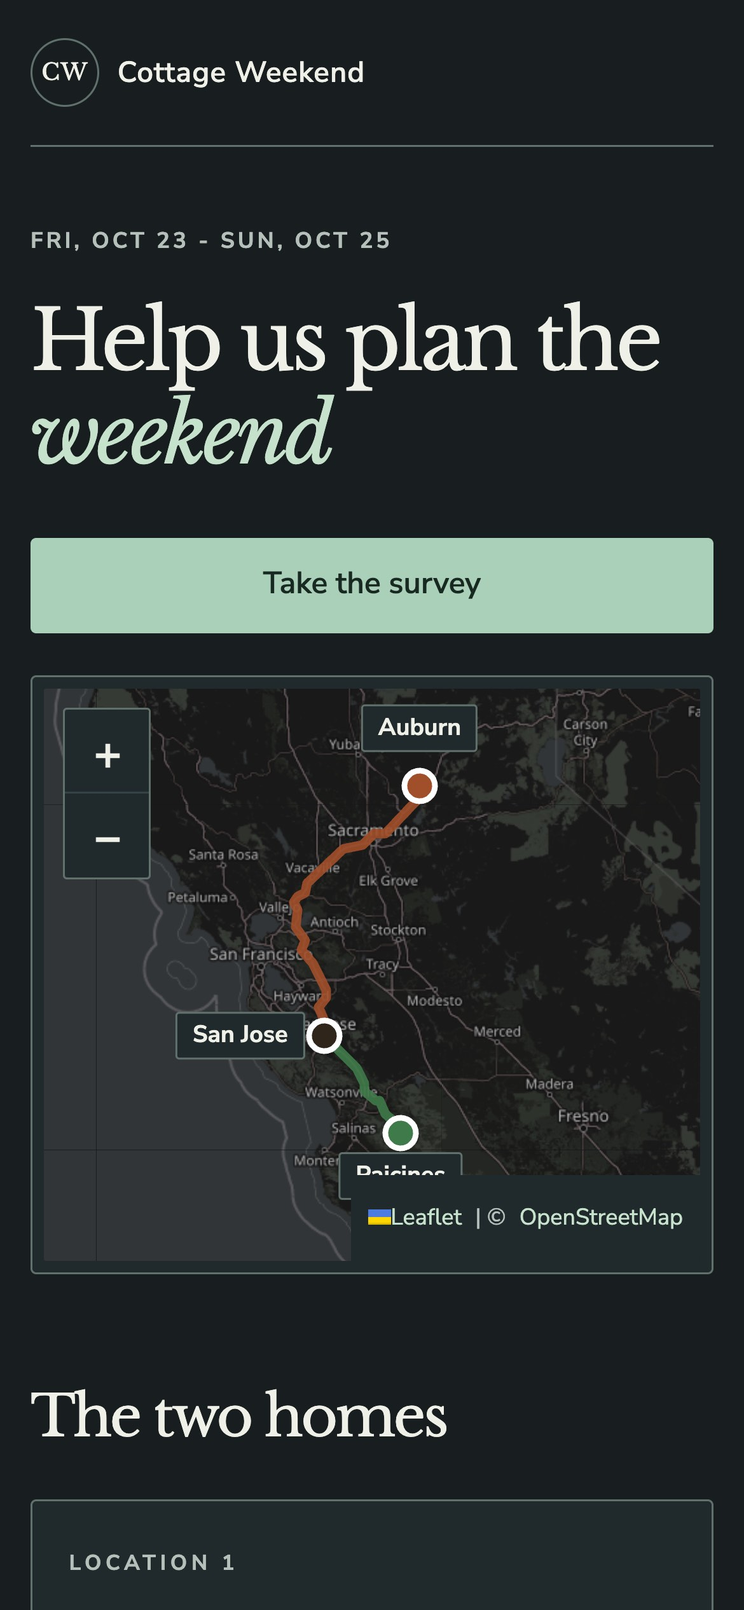
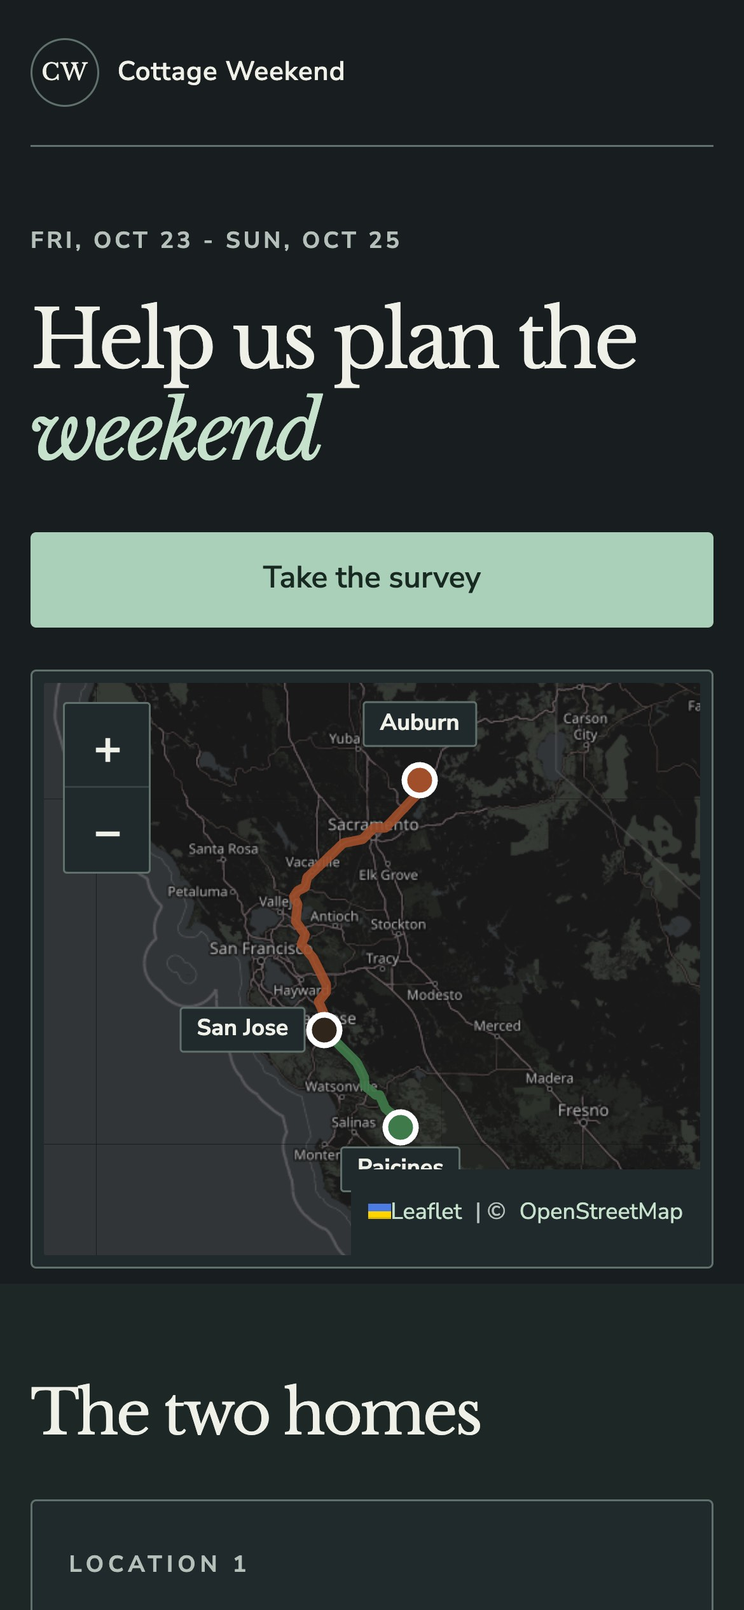
Apply final survey feedback

diff --git a/styles.css b/styles.css
@@ -20,8 +20,19 @@
   --green: #35675b;
   --gold: #637d55;
   --danger: #a13431;
+  --band-hero: #f5f5ef;
+  --band-homes: #edf1e9;
+  --band-survey: #f6efe5;
+  --band-footer: #eceee7;
   --serif: 'Libre Baskerville', Georgia, serif;
   --sans: 'Nunito Sans', system-ui, sans-serif;
+  --fs-xs: 0.75rem;
+  --fs-sm: 0.875rem;
+  --fs-base: 1rem;
+  --fs-md: 1.125rem;
+  --fs-lg: clamp(1.35rem, 4.6vw, 1.65rem);
+  --fs-xl: clamp(2rem, 6vw, 3rem);
+  --fs-hero: clamp(2.6rem, 10vw, 4.5rem);
   --max: 1080px;
 }
 
@@ -43,6 +54,10 @@
     --green: #abd0b9;
     --gold: #ccdab3;
     --danger: #ffb2a6;
+    --band-hero: #181e20;
+    --band-homes: #1d2726;
+    --band-survey: #241f1d;
+    --band-footer: #202628;
   }
 }
 
@@ -80,13 +95,13 @@ h1, h2, h3, legend, .q > label:first-child {
   font-weight: 400;
   letter-spacing: -0.045em;
 }
-h1 { max-width: 14ch; margin: 0; font-size: clamp(2.7rem, 10.5vw, 4.6rem); line-height: 1.14; }
+h1 { max-width: 14ch; margin: 0; font-size: var(--fs-hero); line-height: 1.14; }
 h1 em { color: var(--accent-strong); font-style: italic; font-weight: 400; }
-h2 { margin: 0; font-size: clamp(1.85rem, 5vw, 2.65rem); line-height: 1.25; }
-h3 { margin: 0; font-size: 1.5rem; line-height: 1; }
+h2 { margin: 0; font-size: var(--fs-xl); line-height: 1.25; }
+h3 { margin: 0; font-size: var(--fs-lg); line-height: 1; }
 
 /* Header and route map */
-.hero { padding: 20px 0 8px; }
+.hero { padding: 20px 0 8px; background: var(--band-hero); }
 .nav {
   display: flex;
   align-items: center;
@@ -96,7 +111,7 @@ h3 { margin: 0; font-size: 1.5rem; line-height: 1; }
   border-bottom: 1px solid var(--line-strong);
   margin-bottom: 36px;
 }
-.brand { display: inline-flex; align-items: center; gap: 0.6rem; font-weight: 600; letter-spacing: 0.025em; font-size: 0.95rem; }
+.brand { display: inline-flex; align-items: center; gap: 0.6rem; font-weight: 600; letter-spacing: 0.025em; font-size: var(--fs-sm); }
 .brand-mark {
   display: grid;
   place-items: center;
@@ -106,17 +121,17 @@ h3 { margin: 0; font-size: 1.5rem; line-height: 1; }
   border: 1px solid var(--line-strong);
   color: var(--ink);
   font-family: var(--serif);
-  font-size: 0.75rem;
+  font-size: var(--fs-xs);
   font-weight: 400;
 }
-.nav-links { display: none; gap: 1rem; font-size: 0.85rem; color: var(--muted); }
+.nav-links { display: none; gap: 1rem; font-size: var(--fs-sm); color: var(--muted); }
 .nav-links a { display: inline-flex; align-items: center; min-height: 44px; padding: 0.55rem 0; text-decoration: none; font-weight: 600; }
 .nav-links a:hover, .nav-links a:focus-visible { color: var(--ink); text-decoration: underline; text-underline-offset: 6px; outline: none; }
 .kicker {
   display: inline-block;
   margin: 0 0 1.2rem;
   color: var(--muted);
-  font-size: 0.73rem;
+  font-size: var(--fs-xs);
   font-weight: 700;
   letter-spacing: 0.14em;
   text-transform: uppercase;
@@ -160,7 +175,7 @@ button:disabled { opacity: 0.62; cursor: not-allowed; transform: none; }
   color: var(--ink);
   border: 1px solid var(--line-strong);
   border-radius: 2px;
-  font: 700 0.78rem/1.6 var(--sans);
+  font: 700 var(--fs-xs)/1.6 var(--sans);
   white-space: nowrap;
 }
 .map .leaflet-bar { border: 1px solid var(--line-strong); border-radius: 2px; box-shadow: none; }
@@ -172,7 +187,10 @@ button:disabled { opacity: 0.62; cursor: not-allowed; transform: none; }
 }
 
 /* Both homes use the same visual treatment. */
-.section { padding: 48px 0 12px; }
+.section { position: relative; isolation: isolate; padding: 48px 0 12px; }
+.section::before { content: ''; position: absolute; inset: 0 calc(50% - 50vw); z-index: -1; background: var(--section-band, var(--bg)); }
+#homes { --section-band: var(--band-homes); }
+#survey { --section-band: var(--band-survey); }
 .section-title { margin-bottom: 1.6rem; }
 .location-grid { display: grid; gap: 40px; }
 .location-card { overflow: hidden; border: 1px solid var(--line-strong); border-radius: 3px; background: var(--card-strong); }
@@ -185,12 +203,12 @@ button:disabled { opacity: 0.62; cursor: not-allowed; transform: none; }
   padding: 1.5rem 1.2rem 1.4rem;
   border-bottom: 1px solid var(--line);
 }
-.card-head .eyebrow { flex: 0 0 100%; color: var(--muted); font-size: 0.7rem; font-weight: 700; letter-spacing: 0.2em; text-transform: uppercase; }
-.card-head h3 { font-size: clamp(2.2rem, 7vw, 3rem); line-height: 1.2; }
+.card-head .eyebrow { flex: 0 0 100%; color: var(--muted); font-size: var(--fs-xs); font-weight: 700; letter-spacing: 0.2em; text-transform: uppercase; }
+.card-head h3 { font-size: var(--fs-xl); line-height: 1.2; }
 .card-head .address { flex: 0 0 100%; margin: 0.2rem 0 0; }
 .location-meta { display: flex; flex-wrap: wrap; gap: 0.45rem; margin: 0; }
-.pill { display: inline-flex; align-items: center; gap: 0.35rem; padding: 0.35rem 0.75rem; border-radius: 2px; background: var(--tint); color: var(--ink); font-size: 0.85rem; font-weight: 600; }
-.address { display: flex; align-items: flex-start; gap: 0.4rem; color: var(--muted); font-size: 0.88rem; }
+.pill { display: inline-flex; align-items: center; gap: 0.35rem; padding: 0.35rem 0.75rem; border-radius: 2px; background: var(--tint); color: var(--ink); font-size: var(--fs-sm); font-weight: 600; }
+.address { display: flex; align-items: flex-start; gap: 0.4rem; color: var(--muted); font-size: var(--fs-sm); }
 .address .icon { margin-top: 0.15rem; }
 .photo-strip { position: relative; }
 .photo-grid {
@@ -227,11 +245,11 @@ button:disabled { opacity: 0.62; cursor: not-allowed; transform: none; }
 .strip-arrow:disabled { opacity: 0; pointer-events: none; }
 .strip-arrow.prev { left: 12px; }
 .strip-arrow.next { right: 12px; }
-.strip-count { position: absolute; right: 12px; bottom: 12px; padding: 0.2rem 0.65rem; border-radius: 2px; background: rgba(24, 30, 32, 0.82); color: #fff8ec; font-size: 0.82rem; font-weight: 500; letter-spacing: 0.06em; }
+.strip-count { position: absolute; right: 12px; bottom: 12px; padding: 0.2rem 0.65rem; border-radius: 2px; background: rgba(24, 30, 32, 0.82); color: #fff8ec; font-size: var(--fs-xs); font-weight: 500; letter-spacing: 0.06em; }
 .location-body { display: grid; gap: 1.2rem; padding: 1.5rem 1.2rem; }
-.location-body .feel { margin: 0; font-family: var(--serif); font-size: 1.2rem; font-weight: 400; line-height: 1.65; letter-spacing: -0.02em; }
+.location-body .feel { margin: 0; font-family: var(--serif); font-size: var(--fs-md); font-weight: 400; line-height: 1.65; letter-spacing: -0.02em; }
 .feel-chips { display: flex; flex-wrap: wrap; gap: 0.3rem 0.6rem; margin: 0.8rem 0 0; padding: 0; list-style: none; }
-.feel-chips li { padding: 0.3rem 0.7rem; border: 1px solid var(--line-strong); border-radius: 2px; font-size: 0.82rem; font-weight: 500; }
+.feel-chips li { padding: 0.3rem 0.7rem; border: 1px solid var(--line-strong); border-radius: 2px; font-size: var(--fs-xs); font-weight: 500; }
 .card-actions { display: flex; flex-wrap: wrap; gap: 0.6rem; margin-top: 1.5rem; }
 .card-actions .button { flex: 1 1 11rem; }
 .card-map { width: 100%; height: 260px; border: 1px solid var(--line); border-radius: 3px; background: var(--tint); }
@@ -240,38 +258,37 @@ button:disabled { opacity: 0.62; cursor: not-allowed; transform: none; }
 .form-card { max-width: 720px; }
 .progress { position: sticky; top: env(safe-area-inset-top); z-index: 5; display: grid; gap: 0.45rem; margin-bottom: 1rem; padding: 0.9rem 0; background: var(--bg); }
 .progress.done .progress-text { color: var(--green); }
-.progress-text { color: var(--muted); font-size: 0.7rem; font-weight: 700; letter-spacing: 0.15em; text-transform: uppercase; }
+.progress-text { color: var(--muted); font-size: var(--fs-xs); font-weight: 700; letter-spacing: 0.15em; text-transform: uppercase; }
 .progress-bar { height: 3px; overflow: hidden; background: var(--tint-strong); }
 .progress-bar span { display: block; width: 0; height: 100%; background: var(--accent); transition: width 0.3s ease; }
 form { display: grid; gap: 1rem; counter-reset: q; }
 .q { counter-increment: q; min-width: 0; margin: 0; padding: 1.3rem 1.2rem 1.4rem; border: 1px solid var(--line); border-radius: 3px; background: var(--card-strong); scroll-margin-top: calc(84px + env(safe-area-inset-top)); }
 .q.missing { border-color: var(--danger); box-shadow: 0 0 0 4px rgba(184, 61, 47, 0.18); }
 [hidden] { display: none !important; }
-legend, .q > label:first-child { display: block; margin: 0.4rem 0 1.1rem; padding: 0; font-size: clamp(1.35rem, 4.8vw, 1.7rem); line-height: 1.4; letter-spacing: -0.035em; }
-legend::before, .q > label:first-child::before { content: counter(q, decimal-leading-zero) '.'; display: inline-grid; place-items: center; margin-right: 0.65rem; color: var(--muted); font: 600 0.8rem/1 var(--sans); letter-spacing: 0; vertical-align: 0.2em; }
+legend, .q > label:first-child { display: block; margin: 0.4rem 0 1.1rem; padding: 0; font-size: var(--fs-lg); line-height: 1.4; letter-spacing: -0.035em; }
+legend::before, .q > label:first-child::before { content: counter(q) '.'; display: inline-grid; place-items: center; margin-right: 0.65rem; color: var(--muted); font: 600 var(--fs-sm)/1 var(--sans); letter-spacing: 0; vertical-align: 0.2em; }
 legend:focus, .q > label:first-child:focus { outline: none; }
 fieldset.q legend { float: left; width: 100%; }
 fieldset.q legend + * { clear: both; }
-.hint { font-family: var(--sans); color: var(--muted); font-size: 0.9rem; font-weight: 500; letter-spacing: 0; }
-.more { display: block; margin: 1.2rem 0 0.4rem; color: var(--muted); font-size: 0.95rem; font-weight: 700; }
-input[type='text'], textarea { width: 100%; min-height: 54px; padding: 0.8rem 1rem; border: 1px solid var(--line-strong); border-radius: 3px; background: var(--bg); color: var(--ink); font: inherit; font-size: 1.05rem; }
+.hint { font-family: var(--sans); color: var(--muted); font-size: var(--fs-sm); font-weight: 500; letter-spacing: 0; }
+.more { display: block; margin: 1.2rem 0 0.4rem; color: var(--muted); font-size: var(--fs-sm); font-weight: 700; }
+input[type='text'], textarea { width: 100%; min-height: 54px; padding: 0.8rem 1rem; border: 1px solid var(--line-strong); border-radius: 3px; background: var(--bg); color: var(--ink); font: inherit; font-size: var(--fs-base); }
 input[type='text']::placeholder, textarea::placeholder { color: var(--muted); opacity: 0.8; }
 input[type='text']:focus-visible, textarea:focus-visible { outline: none; border-color: var(--accent); box-shadow: 0 0 0 4px var(--accent-soft); }
 textarea { min-height: 84px; resize: vertical; }
-.options { display: grid; gap: 0.6rem; }
-.chips { display: flex; flex-wrap: wrap; gap: 0.55rem; }
-.option, .chip { position: relative; display: block; }
+.options, .chips { display: grid; grid-template-columns: repeat(auto-fit, minmax(min(100%, 13rem), 1fr)); gap: 0.6rem; align-items: stretch; }
+.option, .chip { position: relative; display: flex; min-width: 0; }
 .option input, .chip input { position: absolute; inset: 0; width: 100%; height: 100%; margin: 0; opacity: 0; cursor: pointer; }
-.option span { display: flex; align-items: center; justify-content: space-between; gap: 0.8rem; min-height: 58px; padding: 0.7rem 1.1rem; border: 1px solid var(--line-strong); border-radius: 3px; background: var(--bg); font-size: 1rem; font-weight: 500; transition: background 0.15s ease, border-color 0.15s ease; }
+.option span { display: flex; align-items: center; justify-content: space-between; gap: 0.8rem; width: 100%; min-height: 58px; padding: 0.7rem 1.1rem; border: 1px solid var(--line-strong); border-radius: 3px; background: var(--bg); font-size: var(--fs-base); font-weight: 500; transition: background 0.15s ease, border-color 0.15s ease; }
 .option span::after { content: ''; flex: none; width: 20px; height: 20px; border: 1px solid var(--line-strong); border-radius: 50%; background: var(--card-strong); }
 .option:hover span, .chip:hover span { border-color: var(--accent); }
 .option input:checked + span { border-color: var(--accent); background: var(--accent-soft); color: var(--ink); }
 .option input:checked + span::after { border-color: var(--accent); background: var(--accent) radial-gradient(circle, var(--on-accent) 0 3px, transparent 4px); }
-.chip span { display: inline-flex; align-items: center; min-height: 48px; padding: 0.5rem 1.05rem; border: 1px solid var(--line-strong); border-radius: 3px; background: var(--bg); font-weight: 500; transition: background 0.15s ease, border-color 0.15s ease; }
+.chip span { display: flex; align-items: center; width: 100%; min-height: 58px; padding: 0.5rem 1.05rem; border: 1px solid var(--line-strong); border-radius: 3px; background: var(--bg); font-weight: 500; transition: background 0.15s ease, border-color 0.15s ease; }
 .chip input:checked + span { background: var(--accent); border-color: var(--accent); color: var(--on-accent); }
 .option input:focus-visible + span, .chip input:focus-visible + span { outline: 3px solid var(--gold); outline-offset: 2px; }
 .slider { display: grid; gap: 0.7rem; }
-.slider-value { justify-self: center; padding: 0.35rem 1rem; border-radius: 2px; background: var(--tint-strong); color: var(--muted); font-size: 1rem; font-weight: 600; }
+.slider-value { justify-self: center; padding: 0.35rem 1rem; border-radius: 2px; background: var(--tint-strong); color: var(--muted); font-size: var(--fs-base); font-weight: 600; }
 .slider.touched .slider-value { background: var(--accent-soft); color: var(--accent-strong); }
 .slider input[type='range'] { width: 100%; height: 44px; margin: 0; background: transparent; cursor: pointer; -webkit-appearance: none; appearance: none; }
 .slider input[type='range']::-webkit-slider-runnable-track { height: 12px; border: 1px solid var(--line-strong); border-radius: 999px; background: var(--tint-strong); }
@@ -281,10 +298,10 @@ textarea { min-height: 84px; resize: vertical; }
 .slider.touched input[type='range']::-webkit-slider-thumb { background: var(--accent); }
 .slider.touched input[type='range']::-moz-range-thumb { background: var(--accent); }
 .slider input[type='range']:focus-visible { outline: 3px solid var(--gold); outline-offset: 4px; border-radius: 999px; }
-.scale-labels { display: flex; justify-content: space-between; gap: 1rem; color: var(--muted); font-size: 0.85rem; font-weight: 600; }
+.scale-labels { display: flex; justify-content: space-between; gap: 1rem; color: var(--muted); font-size: var(--fs-sm); font-weight: 600; }
 .honeypot { position: absolute; left: -9999px; width: 1px; height: 1px; overflow: hidden; }
 .form-actions { display: grid; gap: 0.6rem; margin-top: 1rem; }
-.form-actions button { width: 100%; min-height: 58px; font-size: 1rem; }
+.form-actions button { width: 100%; min-height: 58px; font-size: var(--fs-base); }
 .status { min-height: 1.4rem; color: var(--muted); font-weight: 500; text-align: center; }
 .status.error { color: var(--danger); }
 .status.success { color: var(--green); }
@@ -293,8 +310,8 @@ textarea { min-height: 84px; resize: vertical; }
 .thanks { display: none; position: relative; overflow: hidden; padding: 3rem 1.2rem; border: 1px solid var(--line-strong); border-radius: 3px; background: var(--accent-soft); text-align: center; }
 .thanks.visible { display: block; }
 .thanks:focus { outline: none; }
-.thanks h3 { font-size: clamp(2.2rem, 8vw, 3.4rem); }
-.thanks p { margin: 0.7rem 0 0; font-size: 1.15rem; }
+.thanks h3 { font-size: var(--fs-xl); }
+.thanks p { margin: 0.7rem 0 0; font-size: var(--fs-md); }
 .confetti { position: absolute; inset: 0; pointer-events: none; }
 .confetti i { position: absolute; top: -14px; width: 10px; height: 16px; border-radius: 3px; opacity: 0; background: var(--accent); }
 .thanks.visible .confetti i { animation: fall 2.6s ease-in forwards; }
@@ -324,13 +341,13 @@ textarea { min-height: 84px; resize: vertical; }
 .lb-prev { left: calc(12px + env(safe-area-inset-left)); }
 .lb-next { right: calc(12px + env(safe-area-inset-right)); }
 .lb-count { position: absolute; bottom: calc(18px + env(safe-area-inset-bottom)); margin: 0; font-weight: 700; }
-.footer { margin-top: 36px; padding: 24px 0 calc(48px + env(safe-area-inset-bottom)); border-top: 1px solid var(--line); color: var(--muted); font-size: 0.75rem; line-height: 1.8; }
+.footer { position: relative; isolation: isolate; margin-top: 0; padding: 24px 0 calc(48px + env(safe-area-inset-bottom)); border-top: 1px solid var(--line); color: var(--muted); font-size: var(--fs-xs); line-height: 1.8; }
+.footer::before { content: ''; position: absolute; inset: 0 calc(50% - 50vw); z-index: -1; background: var(--band-footer); }
 .footer p { margin: 0; }
 .footer a { display: inline-flex; align-items: center; min-height: 44px; padding: 0 0.2rem; }
 
 @media (max-width: 480px) {
-  .chips { display: grid; grid-template-columns: 1fr; }
-  .chip span { display: flex; width: 100%; min-height: 52px; }
+  .options, .chips { grid-template-columns: 1fr; }
 }
 @media (max-width: 900px) and (max-height: 500px) {
   .hero { padding-top: max(12px, env(safe-area-inset-top)); }

diff --git a/index.html b/index.html
@@ -70,7 +70,7 @@
               <img src="assets/img/auburn-2.jpg" srcset="assets/img/auburn-2-480.jpg 480w, assets/img/auburn-2-720.jpg 720w, assets/img/auburn-2.jpg 960w" sizes="(min-width: 900px) 410px, 84vw" alt="Aerial view of the Auburn home among wooded foothills" width="960" height="719" loading="lazy" decoding="async">
               <img src="assets/img/auburn-3.jpg" srcset="assets/img/auburn-3-480.jpg 480w, assets/img/auburn-3-720.jpg 720w, assets/img/auburn-3.jpg 960w" sizes="(min-width: 900px) 410px, 84vw" alt="Open living room and kitchen inside the Auburn home" width="960" height="641" loading="lazy" decoding="async">
               <img src="assets/img/auburn-4.jpg" srcset="assets/img/auburn-4-480.jpg 480w, assets/img/auburn-4-720.jpg 720w, assets/img/auburn-4.jpg 960w" sizes="(min-width: 900px) 410px, 84vw" alt="Long dining table at the Auburn home" width="960" height="641" loading="lazy" decoding="async">
-              <img src="assets/img/auburn-5.jpg" srcset="assets/img/auburn-5-480.jpg 480w, assets/img/auburn-5-720.jpg 720w, assets/img/auburn-5.jpg 960w" sizes="(min-width: 900px) 410px, 84vw" alt="Bedroom at the Auburn home" width="960" height="641" loading="lazy" decoding="async">
+              <img src="assets/img/auburn-satsang-space.jpg" srcset="assets/img/auburn-satsang-space-480.jpg 480w, assets/img/auburn-satsang-space-720.jpg 720w, assets/img/auburn-satsang-space.jpg 960w" sizes="(min-width: 900px) 410px, 84vw" alt="Auburn second home satsang space with sofas and a wall of glass doors" width="960" height="640" loading="lazy" decoding="async">
             </div>
             <button class="strip-arrow prev" type="button" aria-label="Previous Auburn photo">&lsaquo;</button>
             <button class="strip-arrow next" type="button" aria-label="Next Auburn photo">&rsaquo;</button>
@@ -107,7 +107,7 @@
               <img src="assets/img/pinnacles-sunset.jpg" srcset="assets/img/pinnacles-sunset-480.jpg 480w, assets/img/pinnacles-sunset-720.jpg 720w, assets/img/pinnacles-sunset.jpg 1200w" sizes="(min-width: 900px) 410px, 84vw" alt="Orange sunset on the High Peaks beneath a purple sky in Pinnacles National Park" width="1200" height="800" loading="lazy" decoding="async">
               <img src="assets/img/paicines-home-2.jpg" srcset="assets/img/paicines-home-2-480.jpg 480w, assets/img/paicines-home-2-720.jpg 720w, assets/img/paicines-home-2.jpg 960w" sizes="(min-width: 900px) 410px, 84vw" alt="Paicines home exterior under a clear sky" width="960" height="606" loading="lazy" decoding="async">
               <img src="assets/img/pinnacles-cave-stairs.jpg" srcset="assets/img/pinnacles-cave-stairs-480.jpg 480w, assets/img/pinnacles-cave-stairs-720.jpg 720w, assets/img/pinnacles-cave-stairs.jpg 1200w" sizes="(min-width: 900px) 410px, 84vw" alt="Stone staircase descending into Bear Gulch Cave in Pinnacles National Park" width="1200" height="900" loading="lazy" decoding="async">
-              <img src="assets/img/paicines-sitting-room.jpg" srcset="assets/img/paicines-sitting-room-480.jpg 480w, assets/img/paicines-sitting-room-720.jpg 720w, assets/img/paicines-sitting-room.jpg 960w" sizes="(min-width: 900px) 410px, 84vw" alt="Sunlit sitting room with a fireplace and tall arched window inside the Paicines home" width="960" height="720" loading="lazy" decoding="async">
+              <img src="assets/img/paicines-property-pool.jpg" srcset="assets/img/paicines-property-pool-480.jpg 480w, assets/img/paicines-property-pool-720.jpg 720w, assets/img/paicines-property-pool.jpg 1000w" sizes="(min-width: 900px) 410px, 84vw" alt="Aerial view of the Paicines property with both homes and the pool" width="1000" height="750" loading="lazy" decoding="async">
               <img src="assets/img/pinnacles-trail.jpg" srcset="assets/img/pinnacles-trail-480.jpg 480w, assets/img/pinnacles-trail-720.jpg 720w, assets/img/pinnacles-trail.jpg 1200w" sizes="(min-width: 900px) 410px, 84vw" alt="Tall rock spires along a trail in Pinnacles National Park" width="1200" height="800" loading="lazy" decoding="async">
             </div>
             <button class="strip-arrow prev" type="button" aria-label="Previous Paicines photo">&lsaquo;</button>
@@ -175,7 +175,6 @@
             <div class="options">
               <label class="option"><input type="radio" name="rhythm" value="Early morning sunrise activities" required><span>Early morning sunrise</span></label>
               <label class="option"><input type="radio" name="rhythm" value="Late night games"><span>Late night games</span></label>
-              <label class="option"><input type="radio" name="rhythm" value="A bit of both"><span>A bit of both</span></label>
             </div>
           </fieldset>
 
@@ -242,7 +241,7 @@
   </dialog>
 
   <footer class="footer page-shell">
-    <p>Home photos are from the Airbnb listings. Map data by <a href="https://www.openstreetmap.org/copyright" target="_blank" rel="noopener">OpenStreetMap</a>, routes by OSRM. Pinnacles trail photo by Clyde Charles Brown (<a href="https://creativecommons.org/licenses/by-sa/4.0/" target="_blank" rel="noopener">CC BY-SA 4.0</a>). <a href="https://commons.wikimedia.org/wiki/File:Bear_Gulch_Cave,_Pinnacles_National_Park,_California_(13413489085).jpg" target="_blank" rel="noopener">Bear Gulch Cave</a> by Ken Lund (<a href="https://creativecommons.org/licenses/by-sa/2.0/" target="_blank" rel="noopener">CC BY-SA 2.0</a>, resized). <a href="https://npgallery.nps.gov/AssetDetail/f3eb3427-155d-4519-3e8b-c8fe544b434e" target="_blank" rel="noopener">Sunset photo</a> by the National Park Service (public domain).</p>
+    <p>Home photos are from the Airbnb listings and related listing media. Map data by <a href="https://www.openstreetmap.org/copyright" target="_blank" rel="noopener">OpenStreetMap</a>, routes by OSRM. Pinnacles trail photo by Clyde Charles Brown (<a href="https://creativecommons.org/licenses/by-sa/4.0/" target="_blank" rel="noopener">CC BY-SA 4.0</a>). <a href="https://commons.wikimedia.org/wiki/File:Bear_Gulch_Cave,_Pinnacles_National_Park,_California_(13413489085).jpg" target="_blank" rel="noopener">Bear Gulch Cave</a> by Ken Lund (<a href="https://creativecommons.org/licenses/by-sa/2.0/" target="_blank" rel="noopener">CC BY-SA 2.0</a>, resized). <a href="https://npgallery.nps.gov/AssetDetail/f3eb3427-155d-4519-3e8b-c8fe544b434e" target="_blank" rel="noopener">Sunset photo</a> by the National Park Service (public domain).</p>
   </footer>
 
   <script src="https://unpkg.com/leaflet@1.9.4/dist/leaflet.js" integrity="sha256-20nQCchB9co0qIjJZRGuk2/Z9VM+kNiyxNV1lvTlZBo=" crossorigin=""></script>

diff --git a/mobile-pass-report/README.md b/mobile-pass-report/README.md
@@ -1,18 +1,24 @@
 # Mobile pass report
 
-Chrome DevTools emulation was run with touch enabled. Screenshots below use a 390 px wide mobile viewport.
+Chrome DevTools emulation was run with touch enabled for phone widths and at 1280 px for desktop sanity.
 
 ## Before
 
-| Light | Dark |
+| 390 px light | 390 px dark |
 | --- | --- |
 | ![Before, 390 px light](screenshots/before-390-light.jpg) | ![Before, 390 px dark](screenshots/before-390-dark.jpg) |
 
-## After
+## After phone
 
-| Light | Dark |
+| 390 px light | 390 px dark |
 | --- | --- |
 | ![After, 390 px light](screenshots/after-390-light.jpg) | ![After, 390 px dark](screenshots/after-390-dark.jpg) |
+
+## After desktop
+
+| 1280 px light | 1280 px dark |
+| --- | --- |
+| ![After, 1280 px light](screenshots/after-1280-light.jpg) | ![After, 1280 px dark](screenshots/after-1280-dark.jpg) |
 
 ## Page weight
 
@@ -20,15 +26,19 @@ Measured as local first-party payload selected for a 390 px mobile viewport at D
 
 | Payload | Before | After |
 | --- | ---: | ---: |
-| Initial visible photo strip images plus first-party HTML/CSS/JS | 399 KiB | 327 KiB |
-| Full photo-strip image set plus first-party HTML/CSS/JS | 1442 KiB | 836 KiB |
+| Initial visible photo strip images plus first-party HTML/CSS/JS | 399 KiB | 328 KiB |
+| Full photo-strip image set plus first-party HTML/CSS/JS | 1442 KiB | 879 KiB |
 
-At DPR 1 the responsive 480 px photo candidates bring the full photo-strip image payload to about 399 KiB.
+At DPR 1 the responsive 480 px photo candidates bring the full photo-strip image payload to about 474 KiB.
 
 ## Verification
 
-- Chrome DevTools emulation at 320, 360, 375, 390, and 430 px, touch enabled, light and dark: no horizontal overflow.
-- Visible links and controls checked for 44 px minimum touch target sizing. The only reported exception was the offscreen honeypot input.
+- Chrome DevTools emulation at 320, 360, 375, 390, and 430 px, touch enabled, light and dark: no horizontal overflow and no visible touch target under 44 px.
+- Chrome DevTools emulation at 1280 px, light and dark: no horizontal overflow and no visible touch target under 44 px.
+- Photo strips keep six photos per home after replacing the Auburn bedroom with the satsang space and replacing the Paicines den with the property and pool view.
+- Question numbers render as 1, 2, 3 rather than 01, 02, 03.
+- The mixed rhythm option was removed. `apps-script/Code.gs` only validates that `rhythm` is a present string with allowed length, so the remaining answer values need no Apps Script change.
+- Section background bands were checked in the Paper Lantern style direction: each major section has its own subtle band while keeping the approved layout.
 - Landscape sanity checked with the mobile landscape media rule reducing the hero map height.
-- Lighthouse mobile: Accessibility 100, SEO 100, Best Practices 96. The remaining Best Practices item is low-resolution third-party OpenStreetMap tiles on high-DPR emulation.
+- Lighthouse mobile: Accessibility 100, SEO 100, Best Practices 96. The remaining Best Practices item was low-resolution third-party OpenStreetMap tiles on high-DPR emulation.
 - Emulation cannot prove real iOS Safari behavior around the dynamic address bar, momentum scrolling, safe-area insets, or Leaflet touch event edge cases. A real iPhone pass is still recommended before relying on those platform details.
